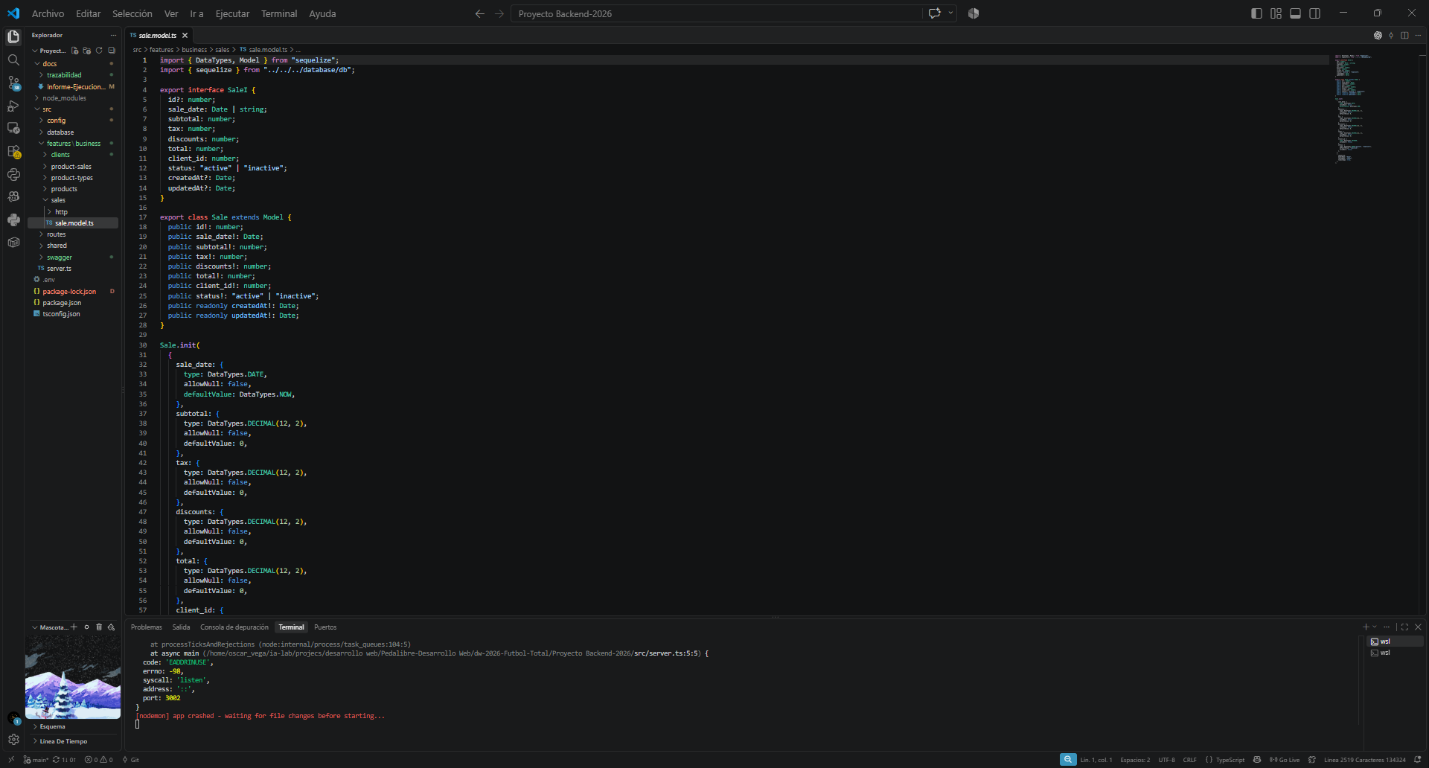
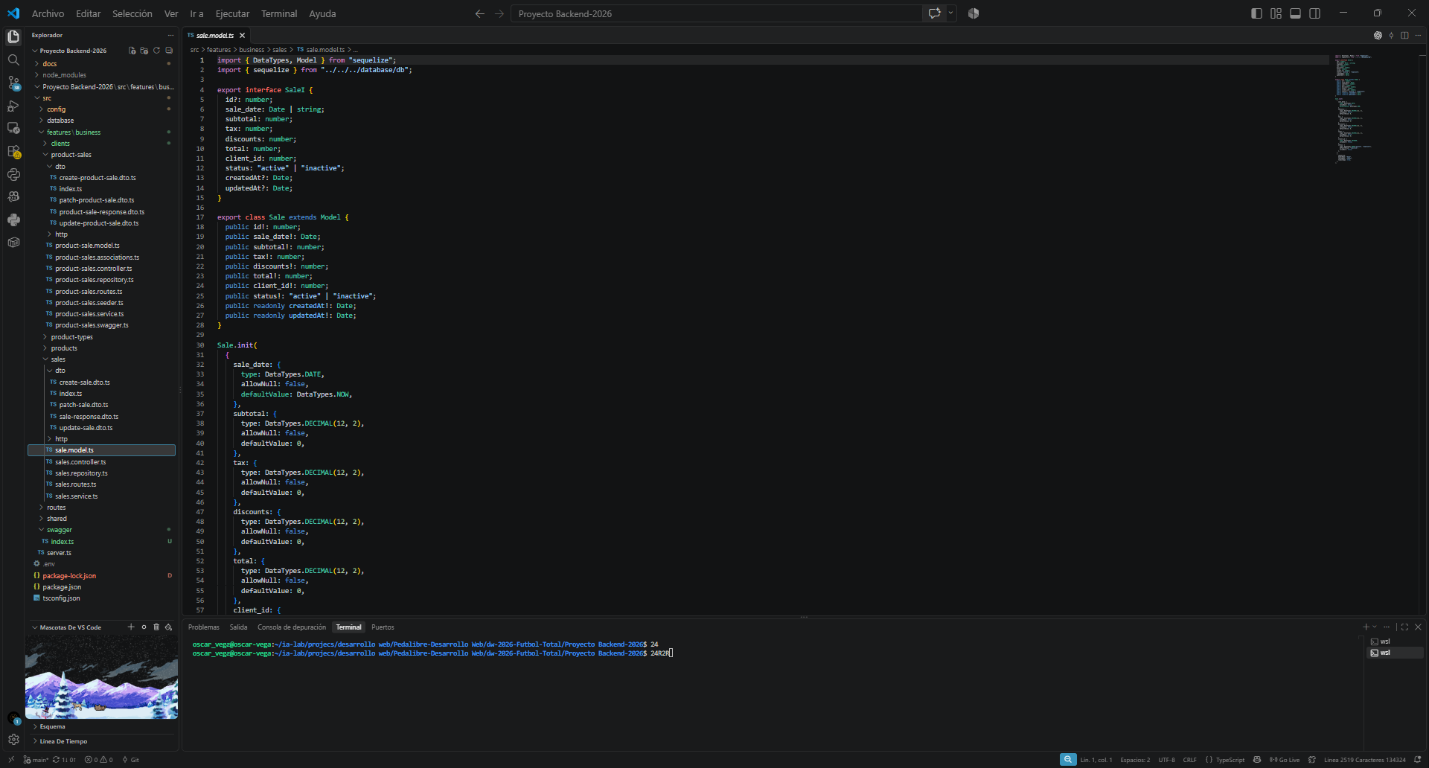
docs:

Changed region(s): [[0.0, 0.0312, 0.4927, 0.9375], [0.9545, 0.8125, 0.9853, 0.875]]

diff --git a/Proyecto Backend-2026/docs/Informe-Ejecucion.md b/Proyecto Backend-2026/docs/Informe-Ejecucion.md
@@ -2634,7 +2634,7 @@ Con el servidor activo, abrir `src/features/business/clients/http/clients.get.ht
 
 ![En esta captura documenté los esquemas ProductSale, ProductSaleCreate, ProductSaleUpdate y ProductSalePatch en OpenAPI](trazabilidad/E-ISS08-P06-05-product-sales-openapi.png)
 
-### Paso 7 — Implementar DTOs y capas de Sale *(implementado; evidencias pendientes)*
+### Paso 7 — Implementar DTOs y capas de Sale *(implementado)*
 
 **Referencia:** ISS-08, sección 13.2 — DTO, Repository, Service, Controller y Routes de Sale.  
 **Acción:** definí los contratos de entrada y respuesta de la venta e implementé las capas para consultar, crear, actualizar y eliminar ventas y sus detalles.
@@ -2643,6 +2643,7 @@ Con el servidor activo, abrir `src/features/business/clients/http/clients.get.ht
 
 - **Fecha:** 2026-10-08.
 - **Resultado observado:** `SalesService` crea la cabecera y sus líneas en una sola transacción, valida el cliente y los productos activos, controla el stock, calcula subtotal, impuestos, descuentos y total, y restaura existencias al eliminar una venta. También incorporé consultas de ventas con sus detalles y las rutas públicas de `/api/ventas`.
+- **Evidencias:** [`E-ISS08-P07-01-sales-controller.png`](trazabilidad/E-ISS08-P07-01-sales-controller.png), [`E-ISS08-P07-02-sales-repository.png`](trazabilidad/E-ISS08-P07-02-sales-repository.png), [`E-ISS08-P07-03-sales-routes.png`](trazabilidad/E-ISS08-P07-03-sales-routes.png) y [`E-ISS08-P07-04-sales-service.png`](trazabilidad/E-ISS08-P07-04-sales-service.png). La captura del modelo Sale quedó registrada en el Paso 1.
 - **Comandos indicados en la guía para crear los archivos:**
 
 ```bash
@@ -2658,5 +2659,12 @@ mkdir -p src/features/business/sales/dto
 : > src/features/business/sales/sales.routes.ts
 ```
 
-- **Estado:** Implementado; falta incorporar las capturas de este paso.
-- **Evidencia pendiente:** capturas de los DTOs, Repository, Service, Controller y Routes de Sale.
+- **Estado:** Implementado y documentado.
+
+![En esta captura implementé SalesController para atender las operaciones HTTP de ventas](trazabilidad/E-ISS08-P07-01-sales-controller.png)
+
+![En esta captura implementé SalesRepository con consultas de ventas y sus detalles, además de operaciones transaccionales](trazabilidad/E-ISS08-P07-02-sales-repository.png)
+
+![En esta captura declaré las rutas públicas GET, POST, PUT, PATCH y DELETE de /api/ventas](trazabilidad/E-ISS08-P07-03-sales-routes.png)
+
+![En esta captura implementé SalesService para crear ventas y sus líneas con control transaccional de clientes, inventario y totales](trazabilidad/E-ISS08-P07-04-sales-service.png)
